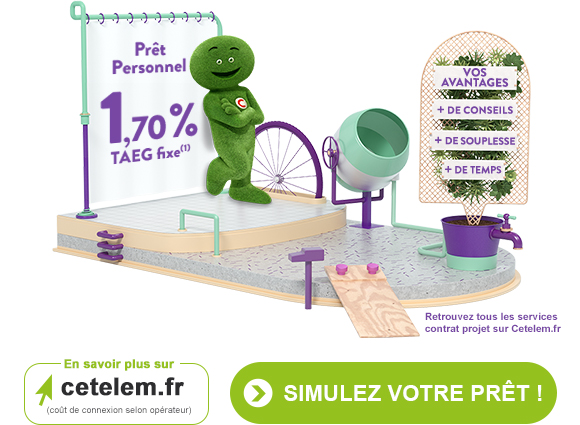
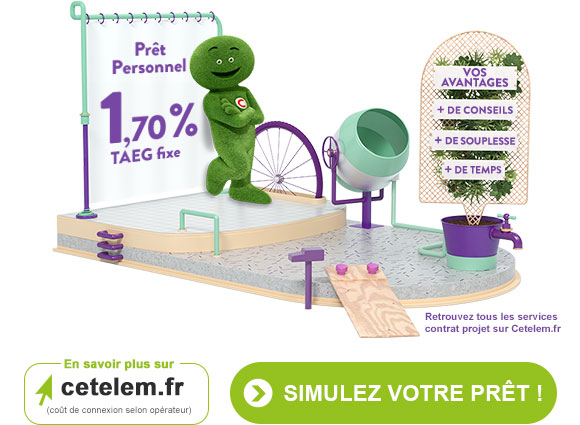
remove (1)

diff --git a/TBWA_FR/Cetelem/Newsletter/index.html b/TBWA_FR/Cetelem/Newsletter/index.html
@@ -510,7 +510,7 @@
                         <tr>
                             <td width="10" style="background-color:#32b775"></td>
                             <td align="center" style="padding-top: 10px">
-                                <img style="display: block;" src="images/content-mobile.png" alt="">
+                                <img style="display: block;" src="images/content-mobile.jpg" alt="">
                             </td>
                         </tr>
                         <tr>
